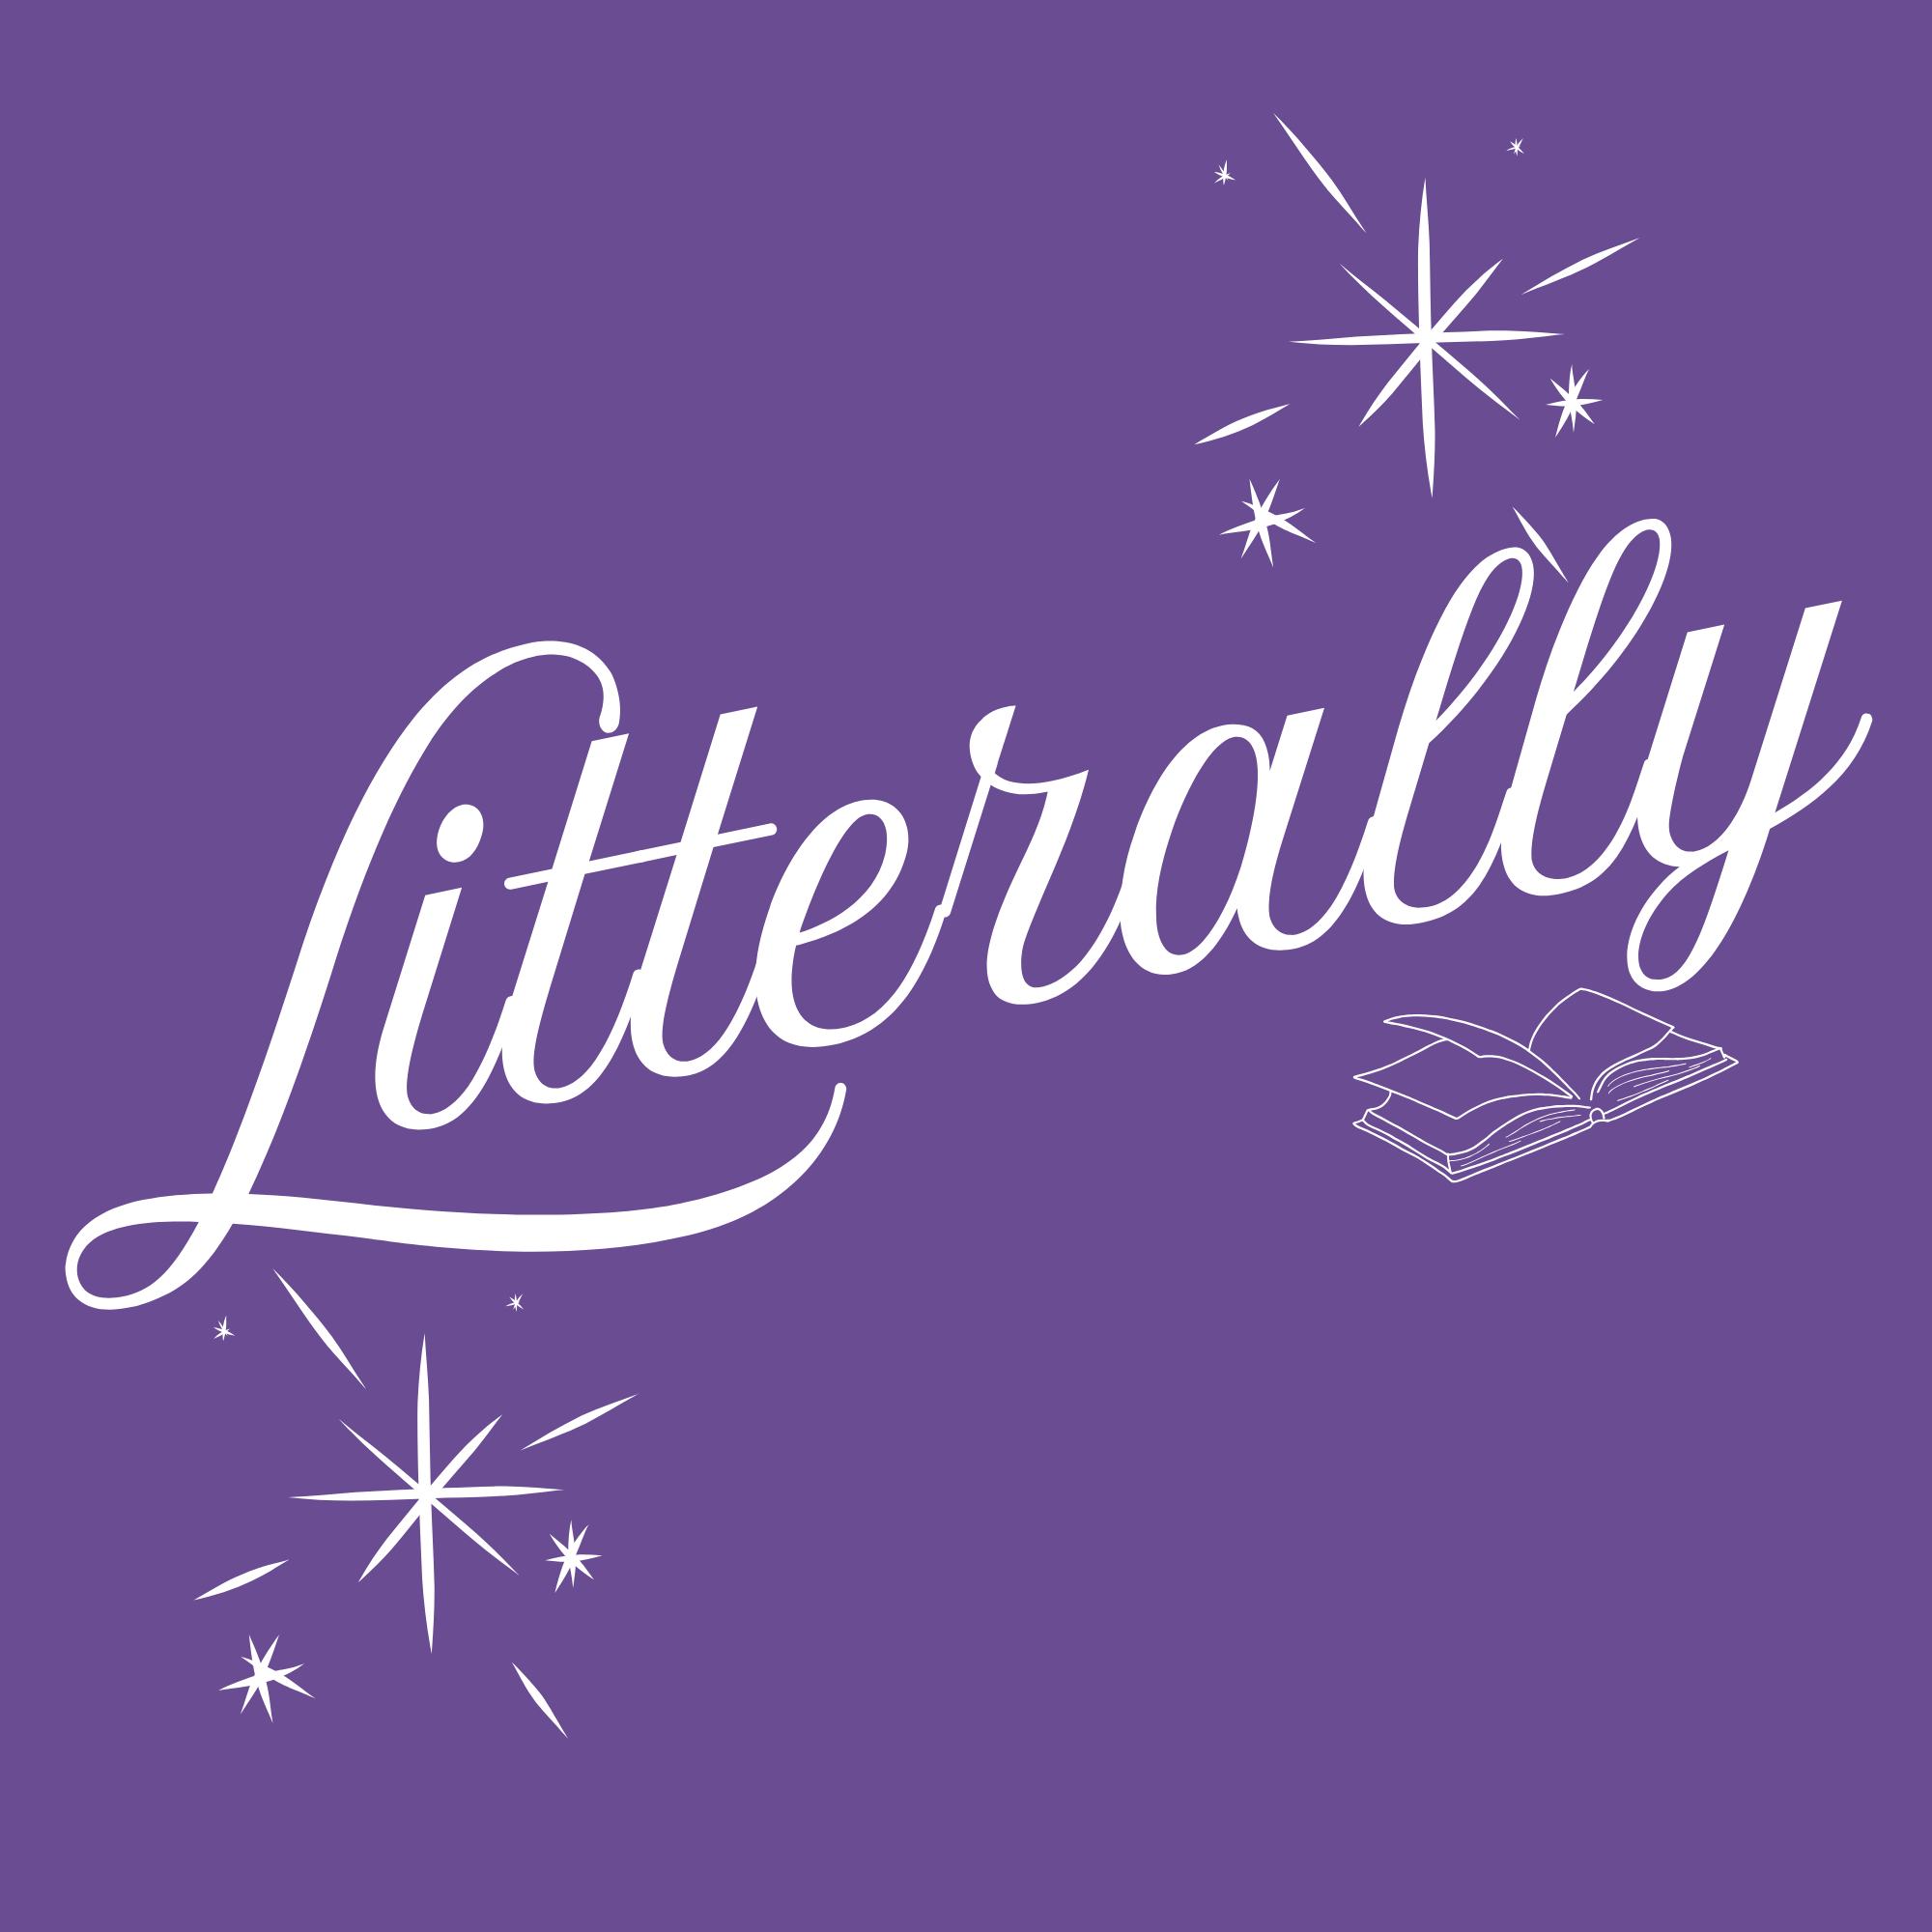
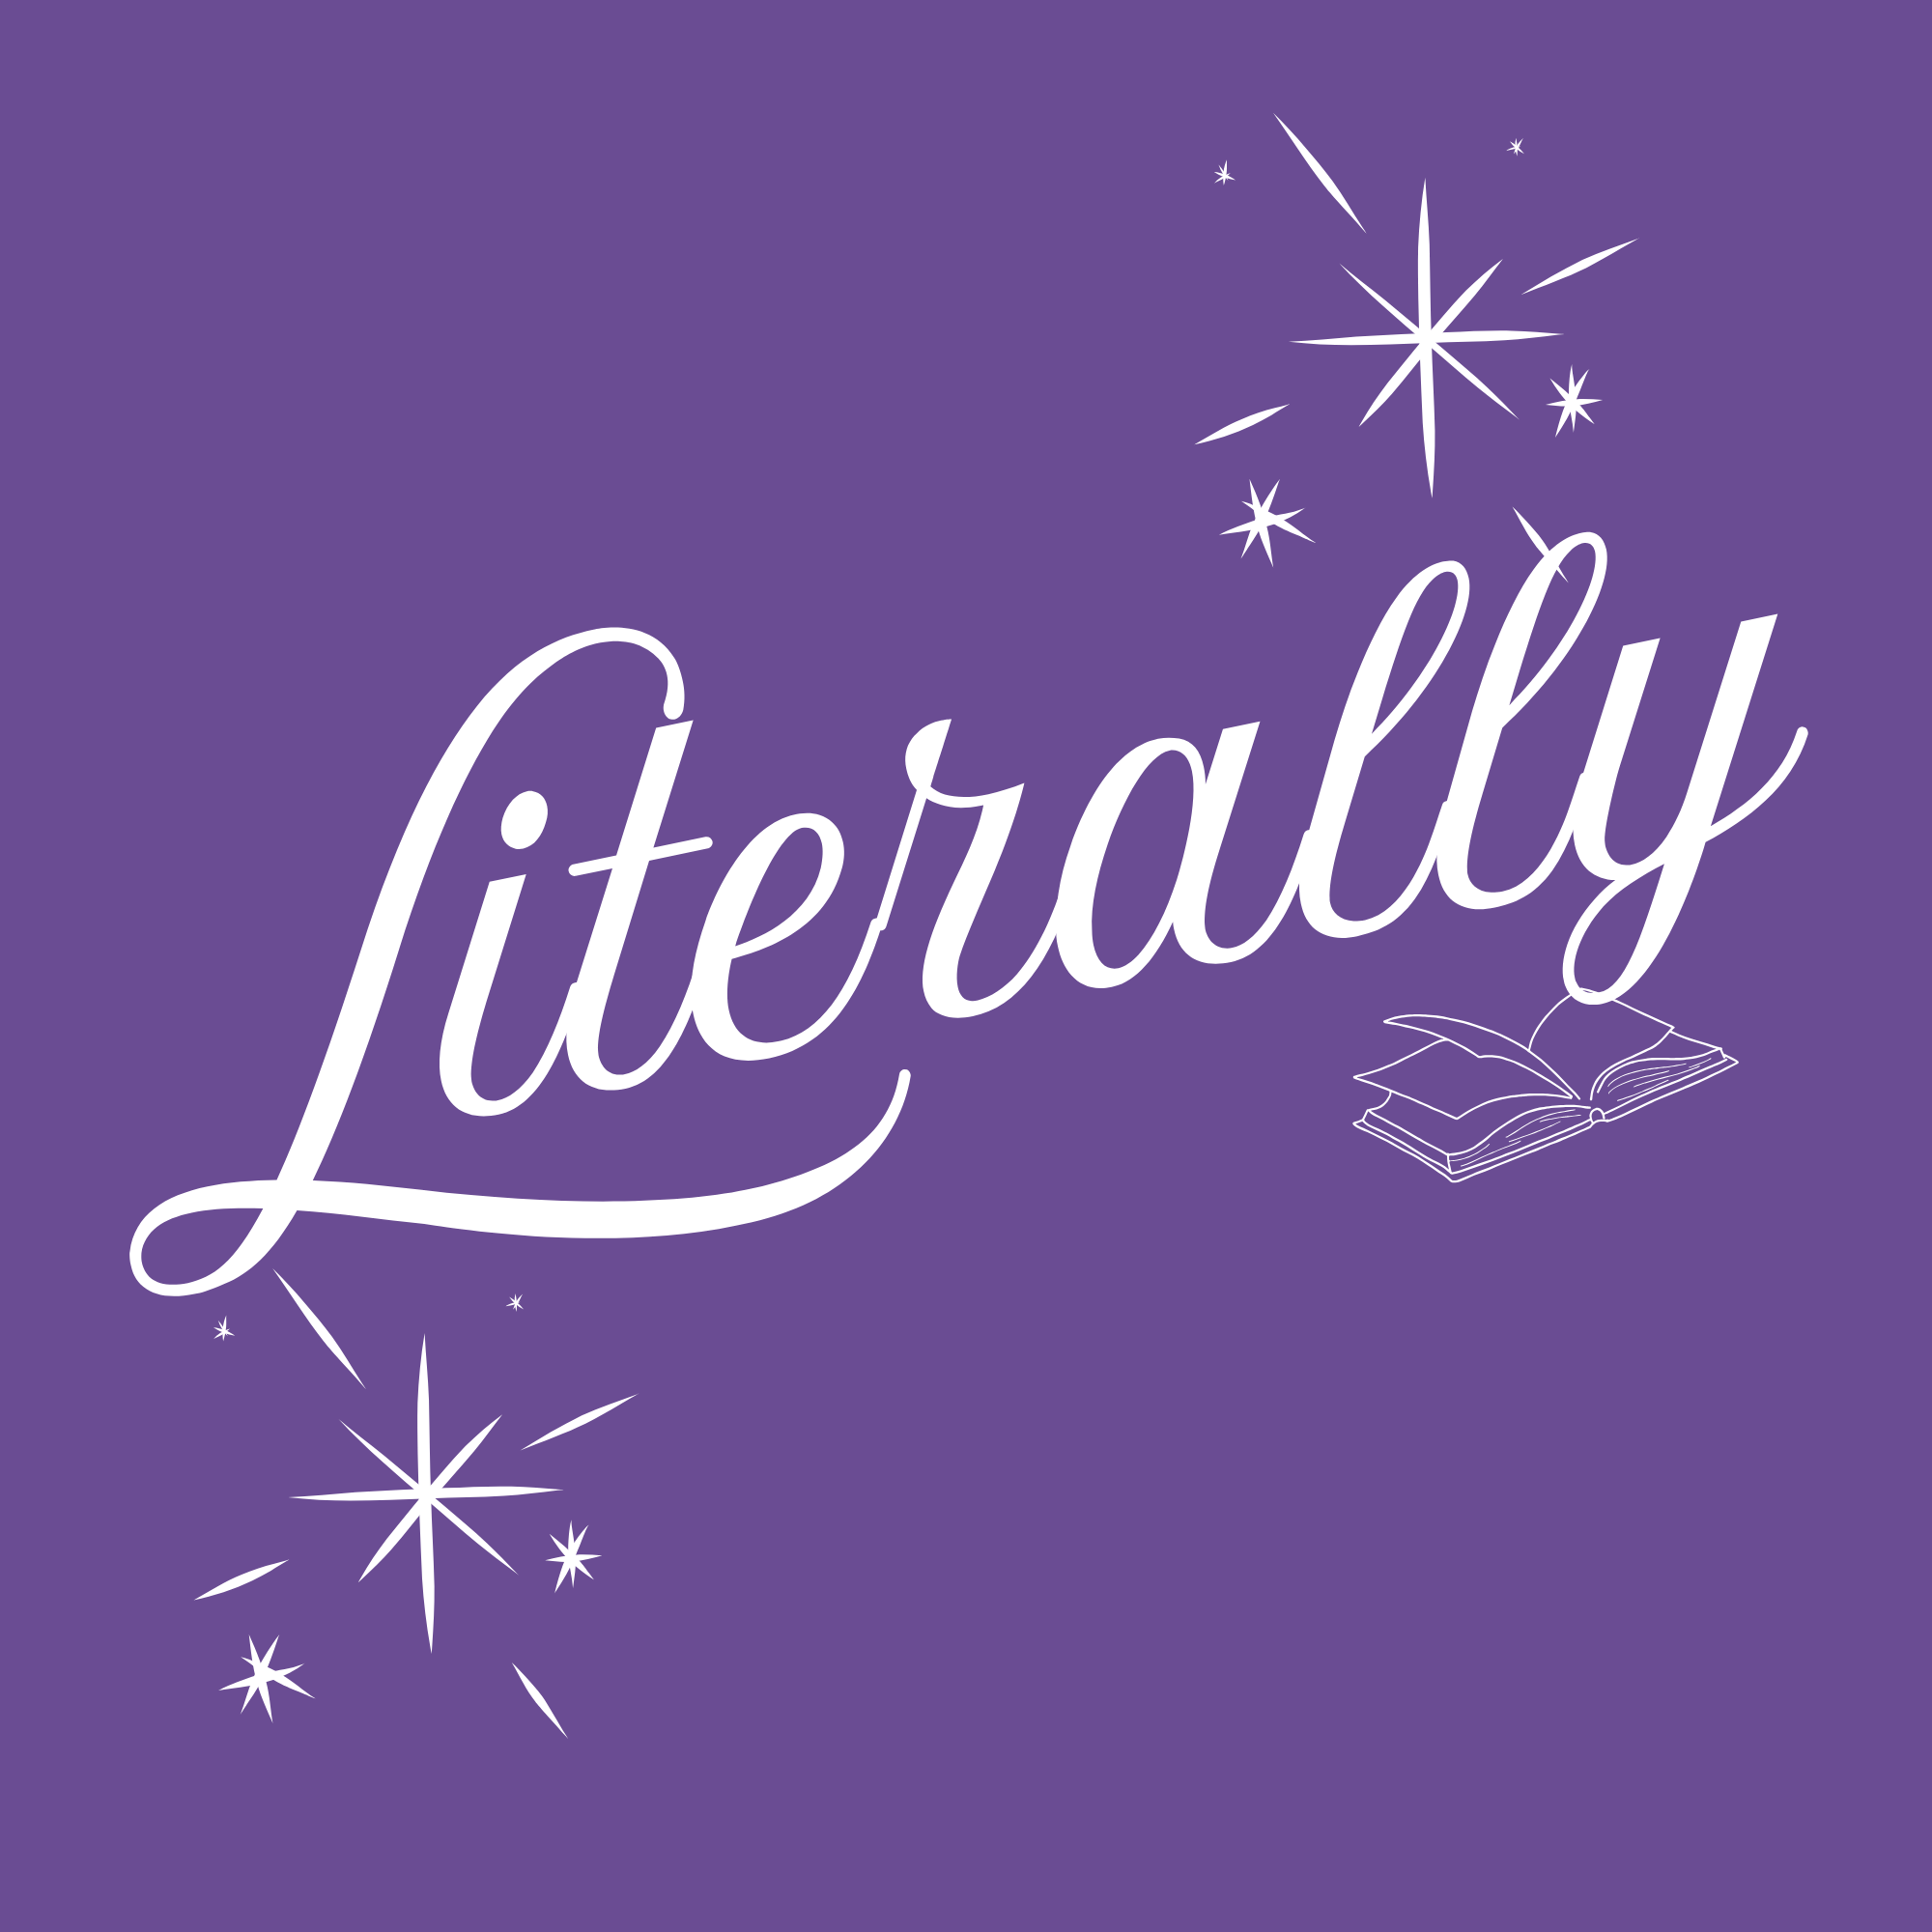
arreglaologo

Changed region(s): [[0.031, 0.248, 0.961, 0.682]]

diff --git a/frontend/content/works/eyre_content/personajes/gateshead/senoraReed.html b/frontend/content/works/eyre_content/personajes/gateshead/senoraReed.html
@@ -89,7 +89,7 @@
             </div>
 
             <section class="pjustificado">
-                <h1>Señora Reed</h1>
+                <h1 class="h1personajes">Señora Reed</h1>
 
                 <img class="fpersonaje" src="../../../../../media/images/senoraReed.png">
 